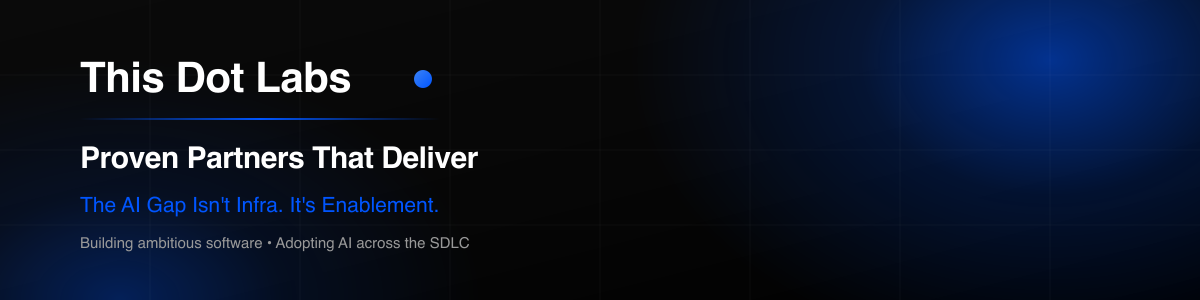
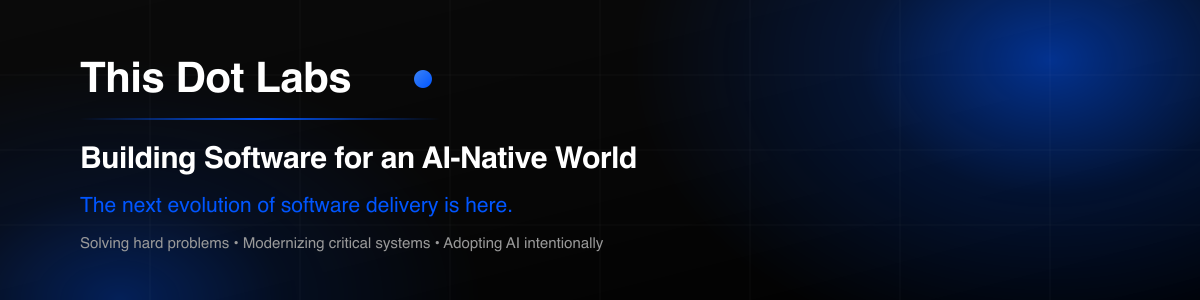
feat: position profile for AI-native delivery

Changed region(s): [[0.0617, 0.48, 0.555, 0.57], [0.0617, 0.78, 0.5242, 0.84], [0.0925, 0.66, 0.4317, 0.72]]

diff --git a/README.md b/README.md
@@ -1,13 +1,13 @@
 <div align="center">
 
 <!-- Banner rendered from profile/assets/banner.svg (1200x300). Re-render with: npx sharp-cli -i profile/assets/banner.svg -o profile/assets/banner.png resize 1200 300 -->
-<img src="./profile/assets/banner.png" alt="This Dot Labs — Proven Partners That Deliver" width="100%" />
+<img src="./profile/assets/banner.png" alt="This Dot Labs — Building Software for an AI-Native World" width="100%" />
 
-# Proven Partners That Deliver
+# Building Software for an AI-Native World
 
-### The AI Gap Isn't Infra. It's Enablement.
+### The next evolution of software delivery is here.
 
-We help companies build ambitious software — and adopt AI across the SDLC.
+We help companies solve hard software problems, modernize critical systems, and adopt AI with intention.
 
 <p>
 <a href="https://www.thisdot.co/"><img src="https://img.shields.io/badge/Website-thisdot.co-1a73e8?style=for-the-badge" alt="Website" /></a>
@@ -29,29 +29,29 @@ We help companies build ambitious software — and adopt AI across the SDLC.
 
 # 👋 Who we are
 
-[This Dot Labs](https://www.thisdot.co/) is a global software consultancy that helps companies build ambitious software. We're heavily invested in helping the teams we work with upskill in AI, and in using AI across the software development lifecycle to improve how we deliver.
+[This Dot Labs](https://www.thisdot.co/) is the engineering partner companies bring in when important software needs to move — fast, but also correctly. Our senior engineers solve hard problems, modernize critical systems, improve how teams work, and leave those teams more capable than when we arrived.
 
 Founded by open source leaders in the web ecosystem — including members of the RxJS Core Team, Angular Core Team, and more — This Dot Labs is recognized as a leading company to work for and work with. We're a fully remote team representing over two dozen nationalities, and a proud **Women- and Minority-Owned Small Business**.
 
 ---
 
-# 🤖 AI Enablement
+# 🤖 AI-Native Engineering
 
-**The AI Gap Isn't Infra. It's Enablement.** Most organizations already have the AI tools — what they lack is the systems, skills, and processes to actually deploy them. That's where we come in: we train engineers to work in agent mode, make codebases testable, well-documented, and agent-ready, and help teams eliminate shadow AI.
+**AI is not another tool to bolt onto the engineering stack.** It changes how work is planned, software is designed, teams collaborate, and systems are governed. The durable advantage is not choosing today's best model; it is building an organization that knows how to use AI well.
 
 Explore our AI services at **[ai.thisdot.co](https://ai.thisdot.co/)**:
 
-- **AI Readiness Assessment** — where you stand today, and the gaps to close.
-- **AI Roadmap** — prioritized use cases and a phased plan to adopt AI with confidence.
-- **AI Acceleration** — embedded teams that implement agentic workflows and upskill your engineers.
+- **Readiness & strategy** — connect AI opportunities to measurable business outcomes.
+- **AI-enabled delivery** — create agent-ready workflows with strong context, verification, and human review.
+- **Enterprise agent governance** — make AI capabilities, access, actions, costs, and risks visible and manageable.
 
 ---
 
 # 👩💻 What we do
 
-Through **Consulting**, **Development**, **Assessments**, and **Training**, our world-class developers and architects help you bring your ideas to life — from concept to launch. We work as an extension of your team via staff augmentation, application development, and hands-on workshops, and we build open source projects for the community at large.
+We work between strategy and implementation across **AI enablement**, **software delivery**, **architecture modernization**, **product development**, and **engineering transformation**. Through embedded engineering, assessments, workshops, and training, we help teams deliver better software and build stronger ways of working.
 
-**Our foundation:** React, Angular, Vue, Next.js, Node.js, TypeScript, GraphQL, and RxJS — now paired with AI/LLM and agentic tooling across the stack.
+**Our foundation:** deep software engineering expertise, from React, Angular, Vue, Next.js, Node.js, TypeScript, GraphQL, and RxJS to AI-native development and agentic systems.
 
 ---
 

diff --git a/profile/README.md b/profile/README.md
@@ -1,13 +1,13 @@
 <div align="center">
 
 <!-- Banner rendered from profile/assets/banner.svg (1200x300). Re-render with: npx sharp-cli -i profile/assets/banner.svg -o profile/assets/banner.png resize 1200 300 -->
-<img src="./profile/assets/banner.png" alt="This Dot Labs — Proven Partners That Deliver" width="100%" />
+<img src="./profile/assets/banner.png" alt="This Dot Labs — Building Software for an AI-Native World" width="100%" />
 
-# Proven Partners That Deliver
+# Building Software for an AI-Native World
 
-### The AI Gap Isn't Infra. It's Enablement.
+### The next evolution of software delivery is here.
 
-We help companies build ambitious software — and adopt AI across the SDLC.
+We help companies solve hard software problems, modernize critical systems, and adopt AI with intention.
 
 <p>
 <a href="https://www.thisdot.co/"><img src="https://img.shields.io/badge/Website-thisdot.co-1a73e8?style=for-the-badge" alt="Website" /></a>
@@ -29,29 +29,29 @@ We help companies build ambitious software — and adopt AI across the SDLC.
 
 # 👋 Who we are
 
-[This Dot Labs](https://www.thisdot.co/) is a global software consultancy that helps companies build ambitious software. We're heavily invested in helping the teams we work with upskill in AI, and in using AI across the software development lifecycle to improve how we deliver.
+[This Dot Labs](https://www.thisdot.co/) is the engineering partner companies bring in when important software needs to move — fast, but also correctly. Our senior engineers solve hard problems, modernize critical systems, improve how teams work, and leave those teams more capable than when we arrived.
 
 Founded by open source leaders in the web ecosystem — including members of the RxJS Core Team, Angular Core Team, and more — This Dot Labs is recognized as a leading company to work for and work with. We're a fully remote team representing over two dozen nationalities, and a proud **Women- and Minority-Owned Small Business**.
 
 ---
 
-# 🤖 AI Enablement
+# 🤖 AI-Native Engineering
 
-**The AI Gap Isn't Infra. It's Enablement.** Most organizations already have the AI tools — what they lack is the systems, skills, and processes to actually deploy them. That's where we come in: we train engineers to work in agent mode, make codebases testable, well-documented, and agent-ready, and help teams eliminate shadow AI.
+**AI is not another tool to bolt onto the engineering stack.** It changes how work is planned, software is designed, teams collaborate, and systems are governed. The durable advantage is not choosing today's best model; it is building an organization that knows how to use AI well.
 
 Explore our AI services at **[ai.thisdot.co](https://ai.thisdot.co/)**:
 
-- **AI Readiness Assessment** — where you stand today, and the gaps to close.
-- **AI Roadmap** — prioritized use cases and a phased plan to adopt AI with confidence.
-- **AI Acceleration** — embedded teams that implement agentic workflows and upskill your engineers.
+- **Readiness & strategy** — connect AI opportunities to measurable business outcomes.
+- **AI-enabled delivery** — create agent-ready workflows with strong context, verification, and human review.
+- **Enterprise agent governance** — make AI capabilities, access, actions, costs, and risks visible and manageable.
 
 ---
 
 # 👩💻 What we do
 
-Through **Consulting**, **Development**, **Assessments**, and **Training**, our world-class developers and architects help you bring your ideas to life — from concept to launch. We work as an extension of your team via staff augmentation, application development, and hands-on workshops, and we build open source projects for the community at large.
+We work between strategy and implementation across **AI enablement**, **software delivery**, **architecture modernization**, **product development**, and **engineering transformation**. Through embedded engineering, assessments, workshops, and training, we help teams deliver better software and build stronger ways of working.
 
-**Our foundation:** React, Angular, Vue, Next.js, Node.js, TypeScript, GraphQL, and RxJS — now paired with AI/LLM and agentic tooling across the stack.
+**Our foundation:** deep software engineering expertise, from React, Angular, Vue, Next.js, Node.js, TypeScript, GraphQL, and RxJS to AI-native development and agentic systems.
 
 ---
 
